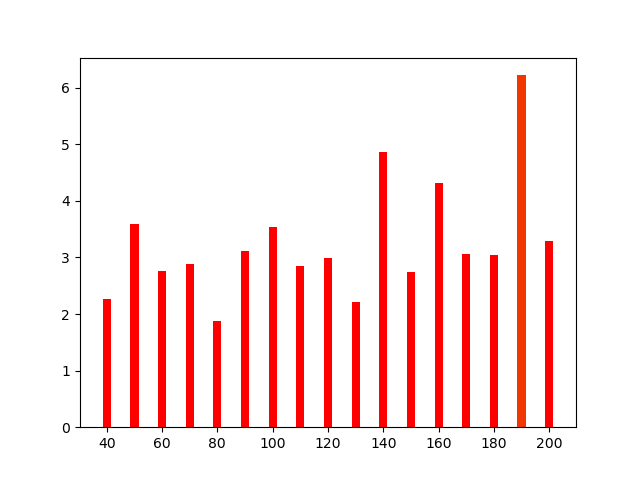
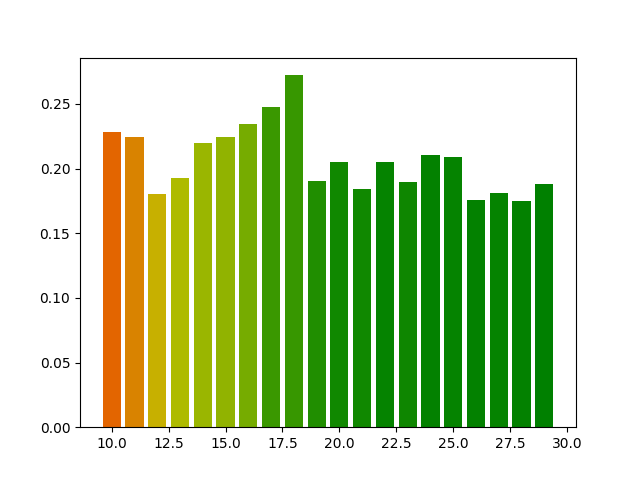
new plots

diff --git a/Genetic.py b/Genetic.py
@@ -4,12 +4,12 @@ from tqdm import tqdm, trange
 import matplotlib.pyplot as plt
 from time import time
 
-size = 20
+size = 10
 epsilon = 0.8
 DEPSILON = 0.99
 N_CHILDREN = 10
 GEN_SIZE = 250
-trials = 10
+trials = 100
 # b = NpBoard(size)
 
 # chromo = [1,1,1,1]
@@ -111,7 +111,7 @@ def tryGenSize(popSize):
     DEPSILON = 0.99
     
     gen0 = genGeneration(popSize)
-    t = tqdm(range(200), desc='Starting', leave=False)
+    t = tqdm(range(150), desc='Starting', leave=False)
     for gen in t:
         epsilon *= DEPSILON
         temp = solveGenetic(gen0)
@@ -131,16 +131,17 @@ def drawPlot(arr, trials=trials):
     # times = [x[1] for x in arr]
     red = Color("red")
     colours = list(red.range_to(Color("green"), trials))
-    for s, t in arr:
-        c = colours[round(t/trials)]
-        plt.bar(x=s, height=t, width=3, color=c.get_rgb() + (1,))
+    for s, t, n in arr:
+        print(s,t,n)
+        c = colours[n-1]
+        plt.bar(x=s, height=t, color=c.get_rgb() + (1,))
     plt.savefig('plot.png')
     plt.show()
 
 if __name__ == '__main__':
     
     results = []
-    t = trange(40, 210, 10, desc="Starting...")
+    t = trange(10, 30, 1, desc="Starting...")
     for popSize in t:
         for i in trange(trials, desc='trials', leave=False):
             t.set_description(f'PopSize {popSize}. Results: {len(results)}')
@@ -150,7 +151,7 @@ if __name__ == '__main__':
                 results.append((popSize, times))
     
     fixed = {}
-    for popSize in range(40,210,10):
+    for popSize in range(10,30,1):
         fixed[popSize] = []
         
     for popSize, time in results:
@@ -158,7 +159,7 @@ if __name__ == '__main__':
 
     out = []
     for popSize, times in fixed.items():
-        out.append((popSize, sum(times)/len(times)))
+        out.append((popSize, sum(times)/len(times), len(times)))
 
     drawPlot(out)
     # main()
